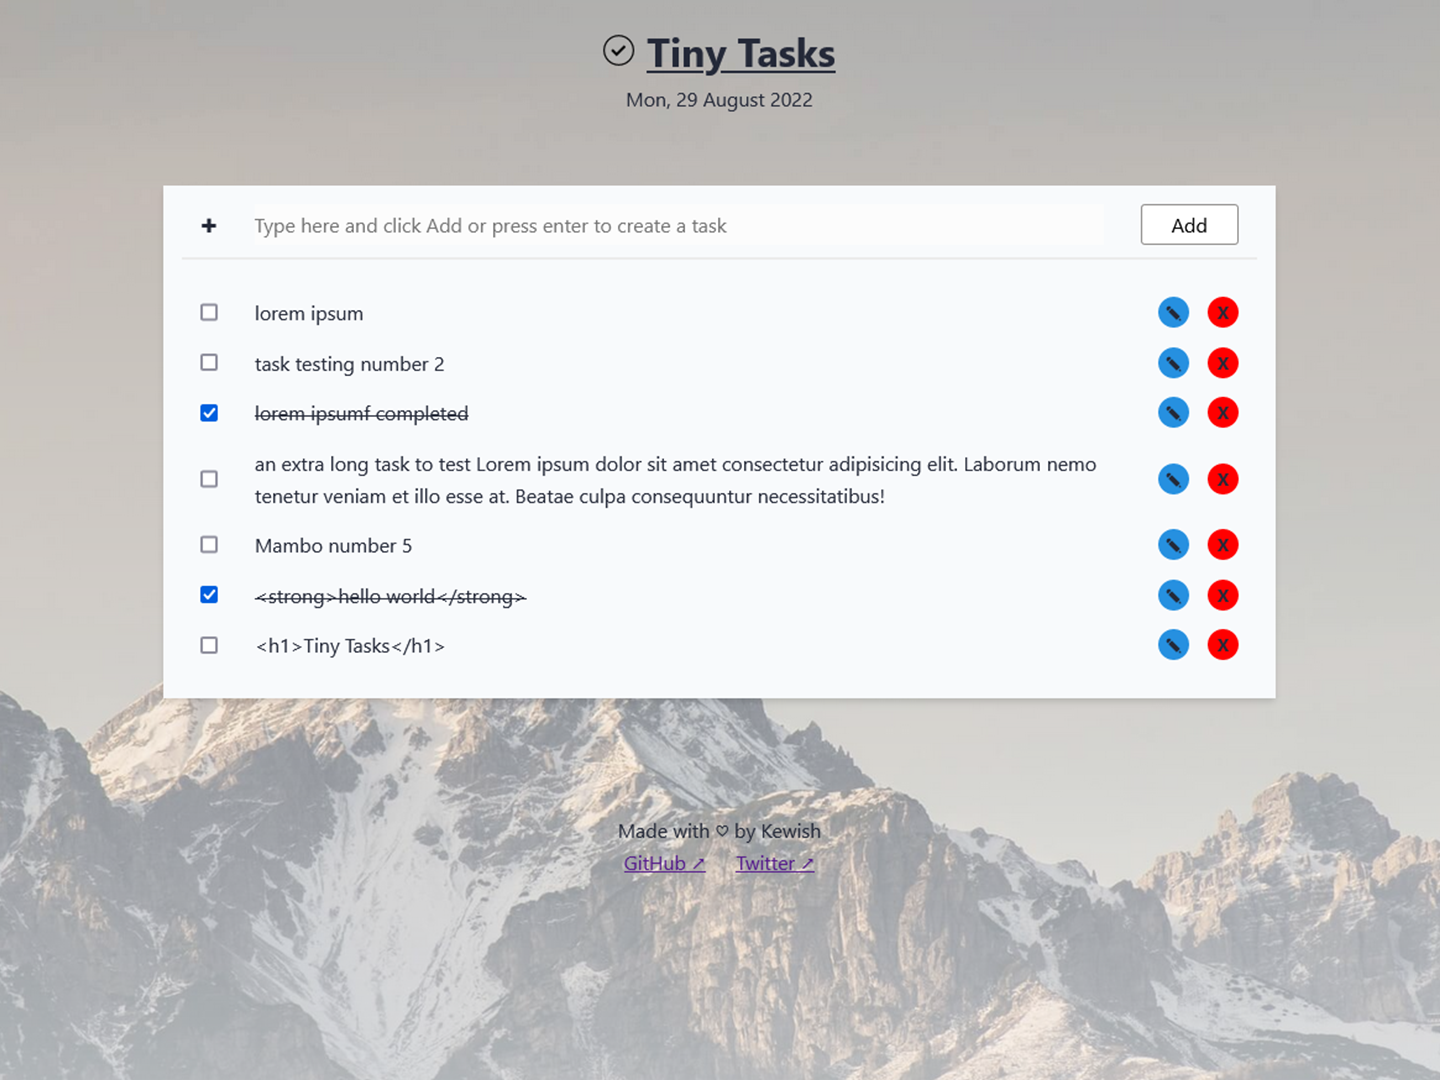
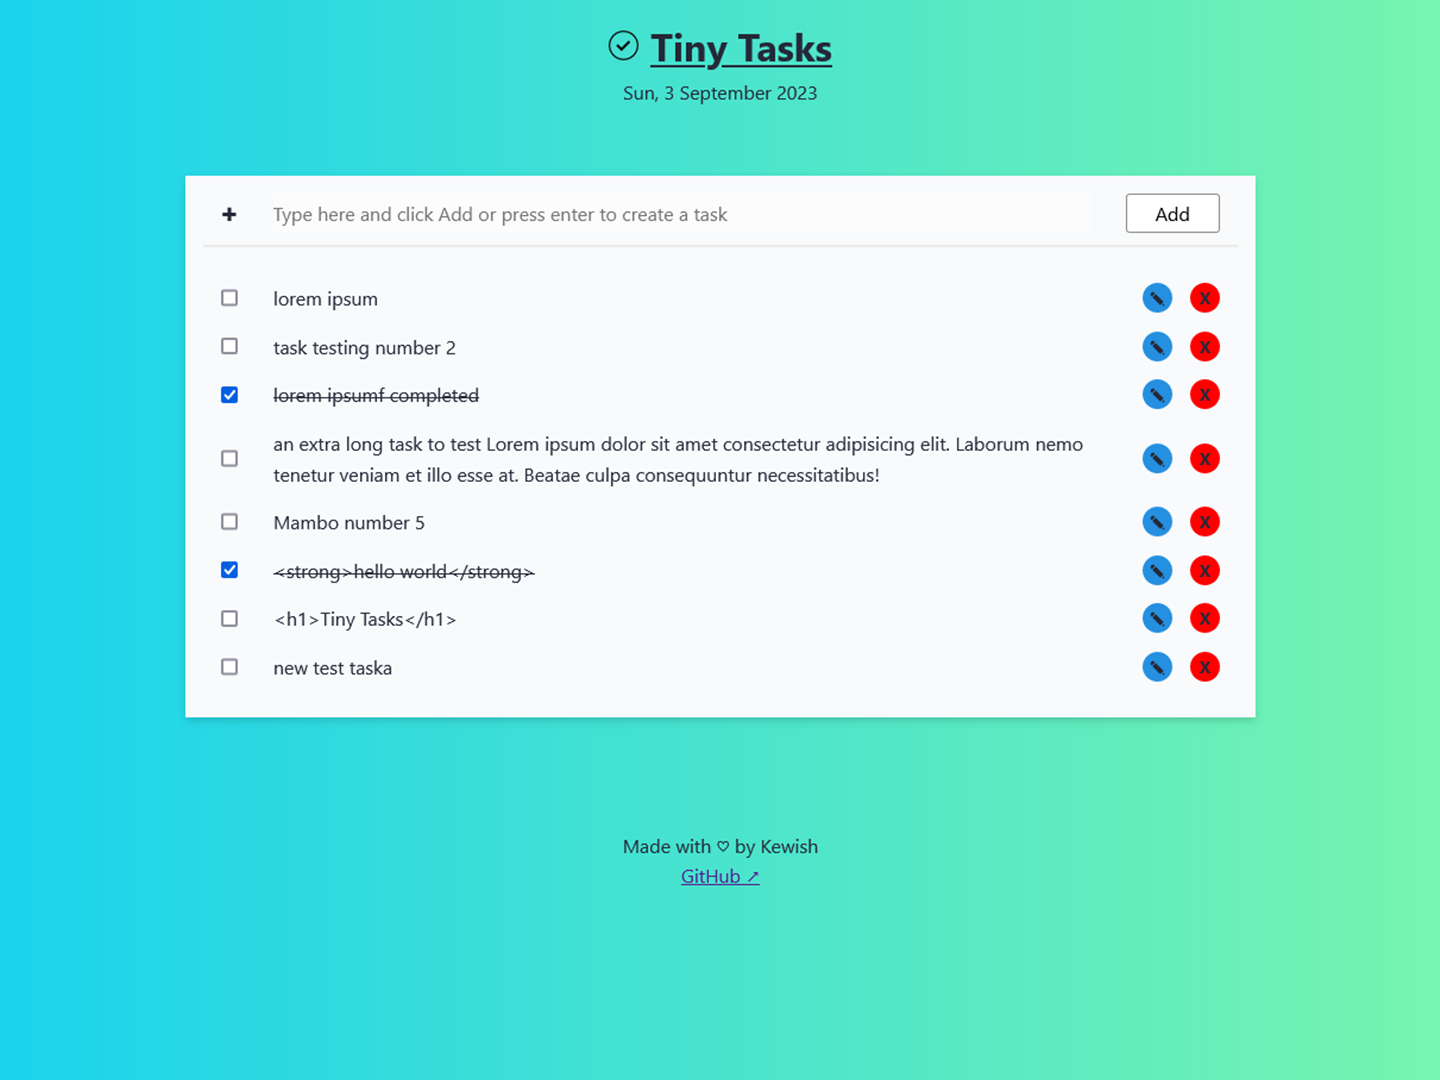
Change background

diff --git a/src/assets/css/styles.css b/src/assets/css/styles.css
@@ -46,7 +46,8 @@ body {
 	color: var(--text-color);
 	background-color: var(--main-bg-color);
 
-  background: linear-gradient(rgba(255, 255, 255, .1), rgba(255, 255, 255, .7)), url(./../images/bg-min.webp);
+  /* background: linear-gradient(rgba(255, 255, 255, .1), rgba(255, 255, 255, .7)), url(./../images/bg-min.webp); */
+  background: linear-gradient(90deg, #00C9FF 0%, #92FE9D 100%);
   background-size: cover;
 }
 
